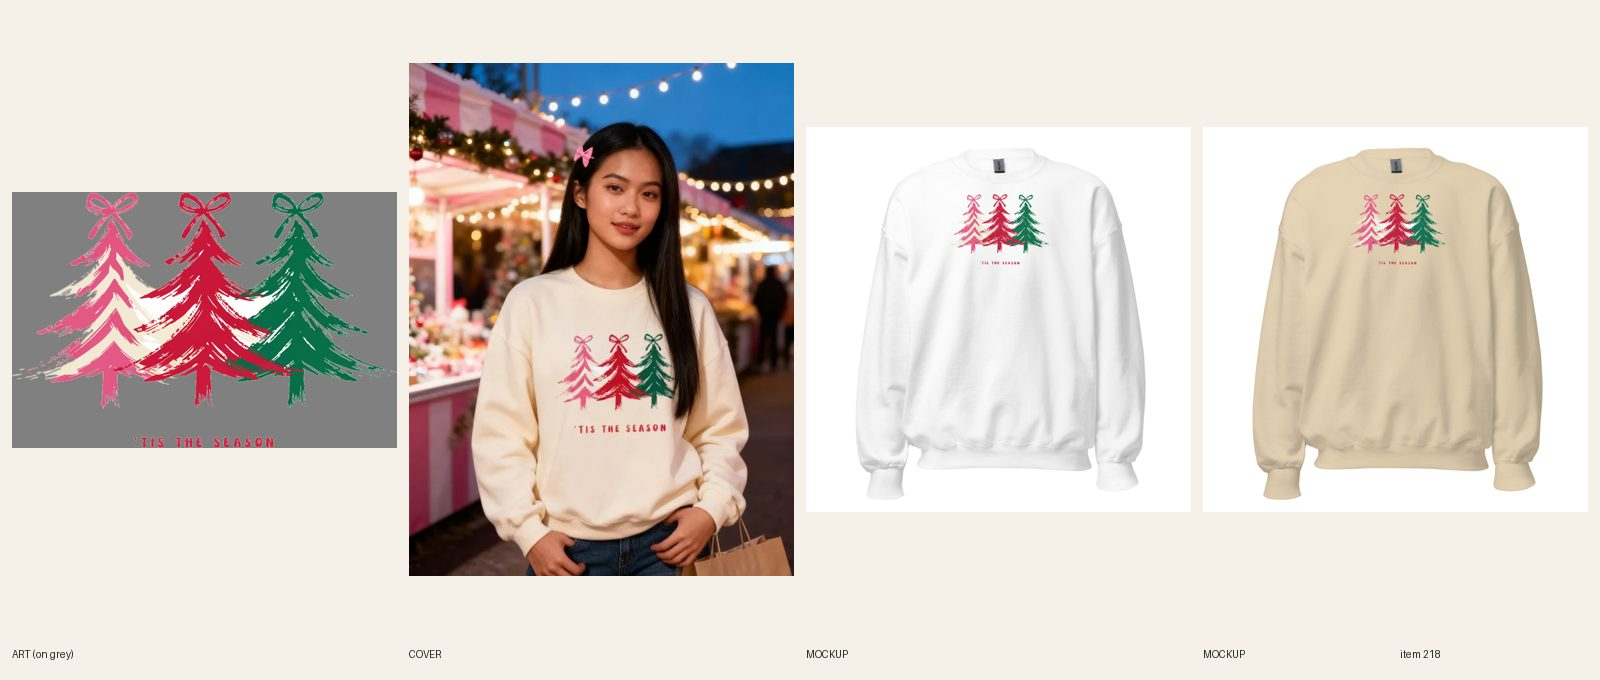
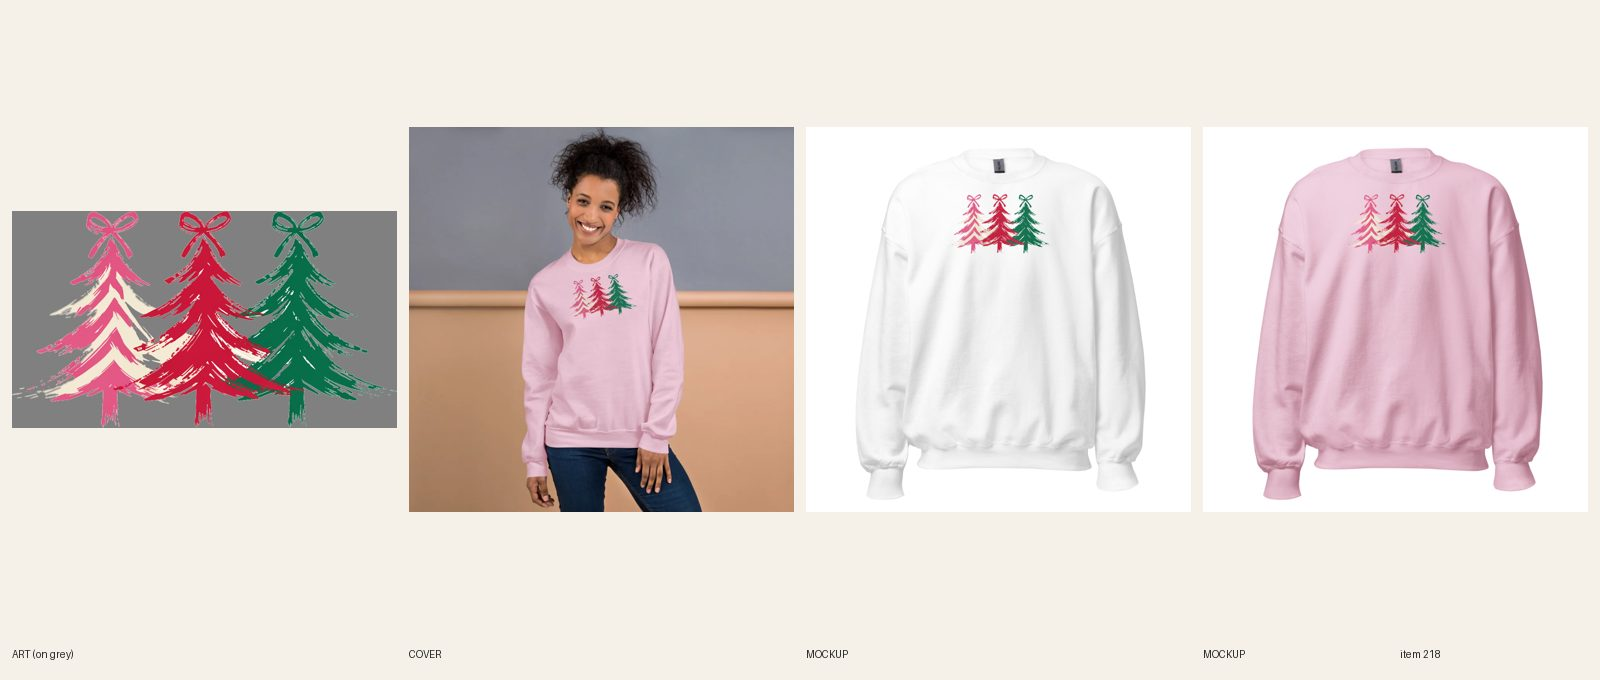
[A] wip 218 (cover, sheet)

Changed region(s): [[0.0, 0.0926, 0.5, 0.8647], [0.7812, 0.2162, 0.9688, 0.7412]]

diff --git a/src/data/covers.ts b/src/data/covers.ts
@@ -222,7 +222,7 @@ export const covers: Record<string, { src: string; alt: string }> = {
   'mens-fishing-casting-doubt-zip-hoodie': { src: '/covers/mens-fishing-casting-doubt-zip-hoodie.webp', alt: 'Man in his late 40s with a ginger beard and a bucket hat seen from behind beside a mountain trout stream at first light, wearing the Casting Doubt zip hoodie in ash with the full back print' },
   'womens-christmas-hello-winter-snowflakes-hoodie': { src: '/covers/womens-christmas-hello-winter-snowflakes-hoodie.webp', alt: 'Woman with platinum shoulder-length hair and freckles in a Sport Grey Hello Winter snowflakes hoodie on a snowy small-town sidewalk with string lights' },
   'womens-christmas-ho-ho-howdy-hoodie': { src: '/covers/womens-christmas-ho-ho-howdy-hoodie.webp', alt: 'Woman in a cowboy hat with a twist-out in a Sand Ho Ho Howdy cowboy Santa hoodie on a ranch porch with a wreath and hay bales' },
-  'womens-christmas-pink-christmas-trees-crewneck-sweatshirt': { src: '/covers/womens-christmas-pink-christmas-trees-crewneck-sweatshirt.webp', alt: 'Woman in her early 20s with long straight black hair and a pink bow clip in a cream Pink Christmas Trees crewneck sweatshirt at a pink-and-white Christmas market stall at dusk, shopping bag at her hip' },
+  'womens-christmas-pink-christmas-trees-crewneck-sweatshirt': { src: '/covers/womens-christmas-pink-christmas-trees-crewneck-sweatshirt.webp', alt: 'Woman smiling in front of a gray and peach wall, wearing the light pink Pink Christmas Trees crewneck sweatshirt' },
   'womens-western-howdy-hoodie': { src: '/covers/womens-western-howdy-hoodie.webp', alt: 'Woman in a tan cowgirl hat at a rodeo arena fence at sunset wearing the Howdy navy hoodie with the pink cowgirl hat and steer skull print' },
   'womens-christmas-o-holy-night-crewneck-sweatshirt': { src: '/covers/womens-christmas-o-holy-night-crewneck-sweatshirt.webp', alt: 'Woman in her late 50s with short grey natural hair and glasses on a chain in a navy O Holy Night crewneck sweatshirt on the snowy steps of a small white church at night, service program in her hand at her side' },
   'womens-christmas-lit-up-bow-crewneck-sweatshirt': { src: '/covers/womens-christmas-lit-up-bow-crewneck-sweatshirt.webp', alt: 'Woman in her mid 20s with long dark curls and a gold necklace in a navy All Lit Up bow crewneck sweatshirt in a living room with a lit Christmas tree and bow-topped gifts, hands in her pockets' },
